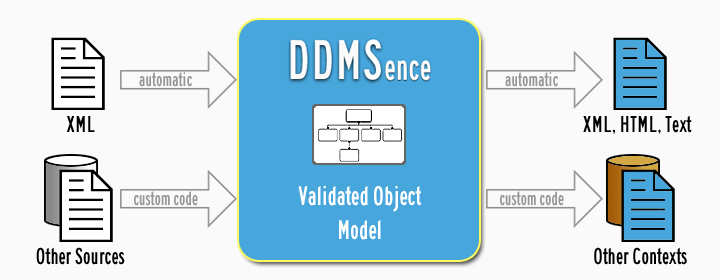
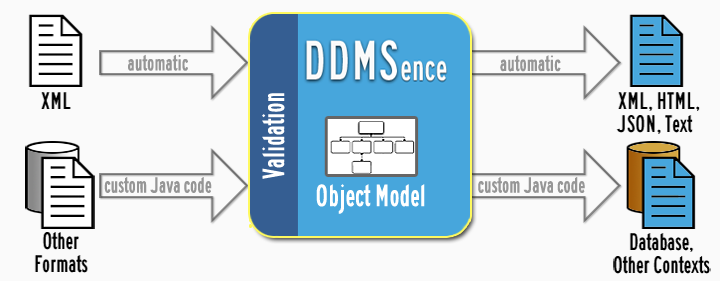
Updated some documentation and website images for JSON support.

diff --git a/src/main/buri/ddmsence/AbstractBaseComponent.java b/src/main/buri/ddmsence/AbstractBaseComponent.java
@@ -191,6 +191,14 @@ public abstract class AbstractBaseComponent implements IDDMSComponent {
 	}
 
 	/**
+	 * @see IDDMSComponent#toJSON()
+	 */
+	public String toJSON() {
+		throw new UnsupportedOperationException("JSON output has not yet been implemented.");
+		//return (getOutput(OutputFormat.JSON, "", ""));
+	}
+	
+	/**
 	 * @see IDDMSComponent#toText()
 	 */
 	public String toText() {
@@ -198,13 +206,13 @@ public abstract class AbstractBaseComponent implements IDDMSComponent {
 	}
 
 	/**
-	 * Renders this component as HTML or Text, with an optional prefix to nest it.
+	 * Renders this component as HTML, JSON, or Text, with an optional prefix to nest it.
 	 * 
 	 * @param format the desired format of this output
 	 * @param prefix an optional prefix to put on each name.
 	 * @param suffix an optional suffix to append to each name, such as an index.
 	 * 
-	 * @return the HTML or Text representation of this component
+	 * @return the representation of this component in the specified format
 	 */
 	public abstract String getOutput(OutputFormat format, String prefix, String suffix);
 

diff --git a/src/main/buri/ddmsence/ddms/summary/VerticalExtent.java b/src/main/buri/ddmsence/ddms/summary/VerticalExtent.java
@@ -40,7 +40,7 @@ import buri.ddmsence.util.Util;
  * values on the required attributes of the same name on this element. It does not seem logical to specify these
  * attributes on the parent element and then express the actual values with a different measure. Note that because
  * DDMSence is giving precedence to the top-level unitOfMeasure and datum attributes, those attributes on the
- * children are not displayed in HTML/Text. However, they are still rendered in XML, if present in an existing
+ * children are not displayed in HTML/JSON/Text. However, they are still rendered in XML, if present in an existing
  * document.</p>
  * 
  * <p>The above design decision dictates that VerticalDistance (the type behind minVerticalExtent and maxVerticalExtent)

diff --git a/src/main/buri/ddmsence/ddms/extensible/ExtensibleAttributes.java b/src/main/buri/ddmsence/ddms/extensible/ExtensibleAttributes.java
@@ -65,7 +65,7 @@ import buri.ddmsence.util.Util;
  * Attribute attribute = new Attribute("opensearch:confidence", "http://opensearch.namespace/", "82"); </code></ul>
  * 
  * <p>The DDMS documentation does not provide sample HTML/Text output for extensible attributes, so the following
- * approach is used. In general, the HTML/Text output of extensible attributes will be prefixed with the name of the
+ * approach is used. In general, the output of extensible attributes will be prefixed with the name of the
  * element being marked. For example:</p>
  * 
  * <ul><code> keyword opensearch:relevance: 95<br /> keyword opensearch:confidence: 82<br />

diff --git a/src/main/buri/ddmsence/ddms/OutputFormat.java b/src/main/buri/ddmsence/ddms/OutputFormat.java
@@ -24,6 +24,8 @@ package buri.ddmsence.ddms;
  * 
  * <ul>
  * <li><b>HTML</b>: HTML meta tags, in accordance with the suggested HTML output from the DDMS Specification.</li>
+ * <li><b>JSON</b>: JSON data, which generally follows the naming conventions of the HTML/Text output, rather than
+ *    being a straight XML-to-JSON conversion.</li>
  * <li><b>TEXT</b>: Text name-value pairings, in accordance with the suggested Text output from the DDMS Specification.</li>
  * </ul>
  * 
@@ -31,5 +33,5 @@ package buri.ddmsence.ddms;
  * @since 2.3.0
  */
 public enum OutputFormat {
-	HTML, TEXT
+	HTML, JSON, TEXT
 }

diff --git a/src/main/buri/ddmsence/ddms/summary/RelatedResource.java b/src/main/buri/ddmsence/ddms/summary/RelatedResource.java
@@ -51,7 +51,7 @@ import buri.ddmsence.util.Util;
  * 		removed, and the ddms:relatedResource now contains all of the parent information (relationship and direction).</p>
  * 
  * 		<p>The element-based constructor for this class can automatically handle these cases, and will automatically
- * 		mediate the Text/HTML/XML output:</p>
+ * 		mediate the Text/HTML/JSON/XML output:</p>
  * 		<ul>
  * 		<li>A pre-DDMS 4.0.1 ddms:RelatedResources element containing 1 ddms:relatedResource.</li>
  * 		<li>A post-DDMS 4.0.1 ddms:relatedResource element.</li>

diff --git a/src/main/buri/ddmsence/ddms/Resource.java b/src/main/buri/ddmsence/ddms/Resource.java
@@ -79,7 +79,7 @@ import buri.ddmsence.util.Util;
  * <br />
  * {@ddms.versions 11111}
  * 
- * <p>When generating HTML/Text output for a Resource, additional tags are generated listing the version of DDMSence
+ * <p>When generating HTML/JSON/Text output for a Resource, additional tags are generated listing the version of DDMSence
  * used to create the record (to help identify formatting bugs), and the version of DDMS. These lines are not required
  * (and may be removed). For example:</p>
  * 

diff --git a/src/main/buri/ddmsence/AbstractAttributeGroup.java b/src/main/buri/ddmsence/AbstractAttributeGroup.java
@@ -100,11 +100,11 @@ public abstract class AbstractAttributeGroup {
 	}
 
 	/**
-	 * Outputs to HTML or Text with a prefix at the beginning of each meta tag or line.
+	 * Outputs to HTML, JSON, or Text with a prefix at the beginning of each meta tag or line.
 	 * 
 	 * @param format the desired format of this output
 	 * @param prefix the prefix to add
-	 * @return the HTML or Text output
+	 * @return the output
 	 */
 	public abstract String getOutput(OutputFormat format, String prefix);
 

diff --git a/src/main/buri/ddmsence/ddms/extensible/ExtensibleElement.java b/src/main/buri/ddmsence/ddms/extensible/ExtensibleElement.java
@@ -48,7 +48,7 @@ import buri.ddmsence.util.Util;
  * element.appendChild("This will be the child text.");
  * </code></ul>
  * 
- * <p>Because it is impossible to cover all of the HTML/Text output cases for ExtensibleElements, DDMSence
+ * <p>Because it is impossible to cover all of the HTML/JSON/Text output cases for ExtensibleElements, DDMSence
  * will simply print out the existence of extensible elements:</p>
  * <ul><code>
  * Extensible Layer: true<br />

diff --git a/src/main/buri/ddmsence/ddms/IDDMSComponent.java b/src/main/buri/ddmsence/ddms/IDDMSComponent.java
@@ -107,6 +107,13 @@ public interface IDDMSComponent {
 	public String toHTML();
 
 	/**
+	 * Renders this component as JSON.
+	 * 
+	 * @return the JSON representation of this component
+	 */
+	public String toJSON();
+	
+	/**
 	 * Renders this component as Text.
 	 * 
 	 * @return the text-based representation of this component
